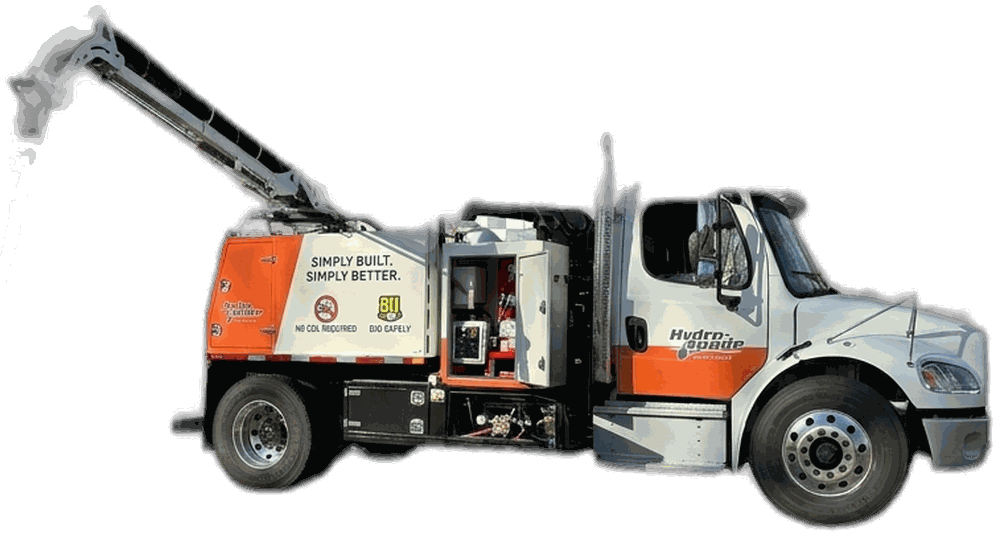
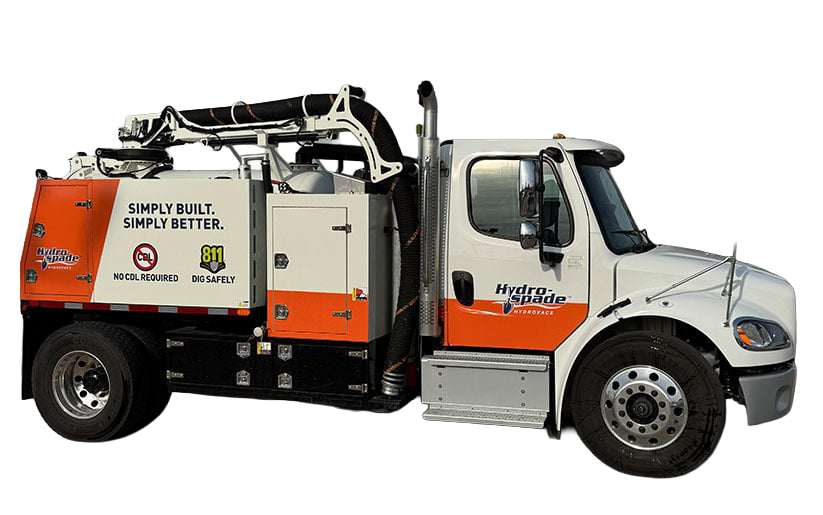
New Hydro-Spade truck photo (clean cutout, replaces feathered render); coming-soon hero -> light so the page-load curtain reveals it smoothly (was a stark white-swipe over a dark panel)

diff --git a/boot-head.css b/boot-head.css
@@ -1234,3 +1234,9 @@ html:not([data-soe-chrome=ready]) [data-soe=top-util-left]{visibility:hidden !im
 /* Equipment mega-menu: equal-height column headers so each column's list lines up. The long
    "Equipment Attachments & Implements" header wrapped to 3 lines and pushed its column down. */
 [data-soe=nav-dropdown][data-soe-menu=mega] [data-soe=nav-mega-col-h]{min-height:68px !important;display:flex !important;align-items:flex-end !important;}
+
+/* Coming-soon page: light hero so the white page-load curtain reveals it smoothly (the dark hero made
+   the white curtain swipe-up read as a stark white flash; every other page reveals light content). */
+.cs-wrap{background:#fff !important;}
+.cs-h1{color:#0E1110 !important;}
+.cs-lede{color:#6B746A !important;}